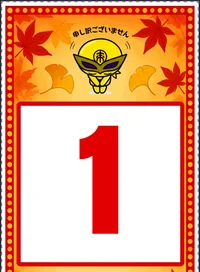
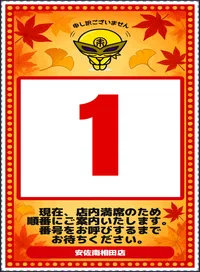
Calibrate seasonal text to masters: per-template message size/line-height, branch text size

diff --git a/css/ticket.css b/css/ticket.css
@@ -58,6 +58,6 @@
 .ticket-content { position: absolute; top: 0; left: 0; right: 0; bottom: 0; z-index: 5; pointer-events: none; }
 .number-frame { position: absolute; top: var(--frame-y); left: 50%; transform: translate(calc(-50% + var(--frame-dx, 0mm)), var(--frame-dy, 0mm)); width: var(--frame-width); height: var(--frame-height); border: var(--number-border-width) solid var(--number-border-color); border-radius: 1mm; background-color: var(--number-bg-color); display: var(--frame-display, block); box-sizing: border-box; z-index: 6; }
 .queue-number { position: absolute; top: var(--number-base-y, 40.25mm); left: 50%; transform: translate(calc(-50% + var(--number-dx, 0mm)), calc(-50% + var(--number-offset-y, 0mm) + var(--number-dy, 0mm))); font-family: var(--number-font); font-size: var(--number-size); font-weight: 900; color: var(--number-color); line-height: 1; display: var(--number-display, block); white-space: nowrap; text-align: center; z-index: 7; }
-.japanese-text { display: var(--message-display, block); position: absolute; bottom: var(--msg-y); left: 50%; transform: translate(calc(-50% + var(--msg-dx, 0mm)), var(--msg-dy, 0mm)); font-family: var(--msg-font); font-weight: var(--msg-weight); font-style: var(--msg-style); font-size: var(--msg-size); color: var(--msg-color); text-align: center; line-height: 1.2; width: calc(100% - (var(--content-padding-x) * 2) + 2%); letter-spacing: -0.1px; -webkit-text-stroke: var(--msg-stroke-w) var(--msg-stroke-c); }
+.japanese-text { display: var(--message-display, block); position: absolute; bottom: var(--msg-y); left: 50%; transform: translate(calc(-50% + var(--msg-dx, 0mm)), var(--msg-dy, 0mm)); font-family: var(--msg-font); font-weight: var(--msg-weight); font-style: var(--msg-style); font-size: var(--msg-size); color: var(--msg-color); text-align: center; line-height: var(--msg-line-height, 1.2); width: calc(100% - (var(--content-padding-x) * 2) + 2%); letter-spacing: -0.1px; -webkit-text-stroke: var(--msg-stroke-w) var(--msg-stroke-c); }
 .branch-name { display: var(--branch-display, block); position: absolute; bottom: var(--branch-y); left: 50%; transform: translate(calc(-50% + var(--branch-dx, 0mm)), var(--branch-dy, 0mm)); font-family: var(--branch-font); font-weight: var(--branch-weight); font-style: var(--branch-style); font-size: var(--branch-size); color: var(--branch-color); background-color: var(--branch-bg); text-align: center; width: var(--branch-width); max-width: calc(100% - (var(--content-padding-x) * 2)); padding: var(--branch-pad-y) 0; border-radius: var(--branch-radius); -webkit-text-stroke: var(--branch-stroke-w) var(--branch-stroke-c); -webkit-print-color-adjust: exact !important; }
 

diff --git a/sw.js b/sw.js
@@ -6,7 +6,7 @@
  * thị banner "Đã có bản mới — Nạp lại" thay vì tự đổi giữa ca làm.
  * Tên cache có phiên bản: bản mới tạo cache mới, bản cũ bị dọn ở activate.
  */
-const CACHE_NAME = 'rairaitei-shell-v8';
+const CACHE_NAME = 'rairaitei-shell-v9';
 const PRECACHE = ["./","assets/images/mascot.png","assets/images/templates/autumn-branch-ribbon.png","assets/images/templates/autumn-mascot.png","assets/images/templates/autumn-number-frame.png","assets/images/templates/spring-background.png","assets/images/templates/spring-branch-ribbon.png","assets/images/templates/spring-number-frame.png","assets/images/templates/summer-branch-ribbon.png","assets/images/templates/summer-mascot.png","assets/images/templates/summer-number-frame.png","assets/images/templates/thumbs/autumn.webp","assets/images/templates/thumbs/spring.webp","assets/images/templates/thumbs/summer.webp","assets/images/templates/thumbs/winter.webp","assets/images/templates/winter-branch-ribbon.png","assets/images/templates/winter-mascot.png","assets/images/templates/winter-number-frame.png","assets/templates/autumn.svg","assets/templates/summer.svg","assets/templates/winter.svg","css/fonts.css","css/layout.css","css/main.css","css/print.css","css/tailwind.css","css/templates.css","css/ticket-drag.css","css/ticket.css","css/tokens/colors.css","css/tokens/dimensions.css","css/tokens/index.css","css/tokens/typography.css","index.html","js/app.js","js/controls.js","js/core/signal.js","js/core/store.js","js/design-history.js","js/i18n.js","js/image-editor.js","js/in-app-guard.js","js/layout-sync.js","js/print/cropmarks.js","js/print/layout.js","js/print/preflight.js","js/print/print-mobile.js","js/print/print-pc.js","js/print/print.js","js/print/raster.js","js/registry/template-registry.js","js/registry/templates/autumn.js","js/registry/templates/spring.js","js/registry/templates/standard.js","js/registry/templates/summer.js","js/registry/templates/winter.js","js/state-schema.js","js/storage/draft-manager.js","js/storage/preset-manager.js","js/ticket-drag.js","js/ui-events.js","js/vendor/html-to-image.min.js","js/vendor/html2canvas.min.js","js/vendor/jspdf.umd.min.js"];
 
 self.addEventListener('install', (event) => {

diff --git a/js/registry/templates/winter.js b/js/registry/templates/winter.js
@@ -16,6 +16,7 @@ export const WinterTemplate = {
   datasetTemplate: 'winter',
   bgImage: "url('../assets/templates/winter.svg')",
   mascotImage: 'assets/images/templates/winter-mascot.png',
+  msgLineHeight: 1.01,
 
   // Preset thông số phần tử chuẩn xác theo lớp vector
   preset: {
@@ -29,12 +30,12 @@ export const WinterTemplate = {
     'frame-width': 36.2,
     'frame-height': 35.7,
     'frame-y': 21.8,
-    'msg-size': 6.4,
-    'msg-y': 8.0,
-    'branch-size': 6.5,
+    'msg-size': 7.3,
+    'msg-y': 8.15,
+    'branch-size': 5.3,
     'branch-y': 3.8,
     'branch-width': 75,
-    'branch-pad-y': 0.15,
+    'branch-pad-y': 0.4,
     'branch-radius': 1.4
   },
 

diff --git a/js/registry/templates/autumn.js b/js/registry/templates/autumn.js
@@ -16,6 +16,7 @@ export const AutumnTemplate = {
   datasetTemplate: 'autumn',
   bgImage: "url('../assets/templates/autumn.svg')",
   mascotImage: 'assets/images/templates/autumn-mascot.png',
+  msgLineHeight: 0.98,
 
   // Preset thông số phần tử chuẩn xác theo lớp vector
   preset: {
@@ -29,12 +30,12 @@ export const AutumnTemplate = {
     'frame-width': 36.5,
     'frame-height': 35.7,
     'frame-y': 21.8,
-    'msg-size': 6.4,
-    'msg-y': 7.9,
-    'branch-size': 6.5,
+    'msg-size': 7.6,
+    'msg-y': 8.1,
+    'branch-size': 5.3,
     'branch-y': 3.8,
     'branch-width': 75,
-    'branch-pad-y': 0.15,
+    'branch-pad-y': 0.4,
     'branch-radius': 1.4
   },
 

diff --git a/js/registry/templates/summer.js b/js/registry/templates/summer.js
@@ -16,6 +16,7 @@ export const SummerTemplate = {
   datasetTemplate: 'summer',
   bgImage: "url('../assets/templates/summer.svg')",
   mascotImage: 'assets/images/templates/summer-mascot.png',
+  msgLineHeight: 1.16,
 
   // Preset thông số phần tử chuẩn xác theo lớp vector
   preset: {
@@ -30,11 +31,11 @@ export const SummerTemplate = {
     'frame-height': 35.9,
     'frame-y': 21.5,
     'msg-size': 6.4,
-    'msg-y': 8.0,
-    'branch-size': 6.5,
+    'msg-y': 8.2,
+    'branch-size': 5.3,
     'branch-y': 3.5,
     'branch-width': 76,
-    'branch-pad-y': 0.15,
+    'branch-pad-y': 0.4,
     'branch-radius': 1.4
   },
 

diff --git a/js/registry/template-registry.js b/js/registry/template-registry.js
@@ -126,6 +126,14 @@ const TemplateRegistry = {
       document.body.style.removeProperty('--bg-image');
     }
 
+    // 2b. Khoảng cách dòng thông điệp riêng của mẫu (bản vẽ gốc nén dòng
+    // chặt hơn mặc định 1.2; mẫu không khai báo thì trở về mặc định CSS).
+    if (tpl.msgLineHeight) {
+      document.body.style.setProperty('--msg-line-height', String(tpl.msgLineHeight));
+    } else {
+      document.body.style.removeProperty('--msg-line-height');
+    }
+
     // 3. Áp dụng Presets thông số
     applyControlPreset(tpl.preset || undefined);
 

diff --git a/CHANGELOG.md b/CHANGELOG.md
@@ -2,6 +2,7 @@
 
 ## Bản sau lễ 2026 (lên sóng từ 4/11/2026 theo quyết định nghiệm thu sớm của Đạt)
 Hoàn thiện toàn repo theo kế hoạch đã duyệt 3/11/2026 (GĐ1–GĐ4 + thiết kế lại R0–R5). Hành vi người dùng giữ nguyên — đối chiếu bằng snapshot trạng thái + computed style toàn phần và bộ test hành vi 50 mục, tất cả đạt.
+- **Chỉnh cỡ chữ theo bản gốc từng mẫu (4/11/2026):** đo mực in trực tiếp từ file gốc của Đạt — thông điệp của Thu/Đông trong bản gốc được vẽ to hơn Hạ, nay cỡ chữ thông điệp Thu lên 7,6 pt, Đông 7,3 pt và khoảng cách dòng nén riêng từng mẫu (0,98/1,01/1,16 so với mặc định 1,2) để vị trí từng dòng khớp bản gốc trong 0,1 mm; tên quán trên ruy-băng thu từ 6,5 xuống 5,3 pt cho đúng bề rộng bản gốc (trước đó to hơn khoảng 20%).
 - **Tách lớp 3 mẫu mùa + dọn rác theo chỉ thị của Đạt (lên sóng 4/11/2026):** (1) Ba mẫu Hạ/Thu/Đông được tách lớp đúng như mẫu Xuân — file SVG gốc vốn là bản vẽ cắt lớp, nay nền chỉ còn phong cảnh, còn khung số, ruy-băng tên quán và linh vật (kèm chữ vòng cung) là từng tệp ảnh lớp riêng đặt lên đúng phần tử của app; số/thông điệp/tên quán vẫn là chữ sống. Viền đen quanh vé biến mất: đó là lề đen của khung canvas trong file thiết kế gốc bị mang theo khi dán cả bức tranh làm nền — nay nền được cắt đúng vùng họa tiết nên vé tràn viền như bản gốc. (2) Gỡ hẳn cơ chế in nhiệt còn sót (nút xem trước mô phỏng đen trắng, thuật toán dithering khi xuất PNG, khóa dịch và trạng thái liên quan) — đúng phạm vi sản phẩm Đạt đã chốt: app không có in nhiệt; có test ghim sự vắng mặt. (3) Gộp nút in còn một: trước đây có 2 nút in ở thanh trên (điện thoại + PC) mở pop-up chứa thêm một nút in xác nhận nữa; nay bỏ cả 2 nút header và pop-up, khu vực in thành tab 印刷 trong thanh tab như các tab khác, nút "印刷 / 保存を確定" trong tab là nút in duy nhất; canh gác trình duyệt nhúng và kiểm tra preflight chạy khi mở tab như trước. Kèm dọn: selector CSS mồ côi của nút/modal đã gỡ, khóa dịch mồ côi, tham chiếu nút in cũ không tồn tại, và 2 cụm CSS chết (.ticket-msg, .mascot-wrap — không còn phần tử tương ứng trong trang) cùng các rule ép cứng màu số của mẫu mùa (nay biến mẫu điều khiển thật sự). Linh vật của mẫu được nạp qua đúng đường xử lý của trình sửa linh vật nhưng bỏ qua bước xóa nền trắng (ảnh lớp đã trong suốt; bước đó xóa mất chữ vòng cung trắng của mẫu Hạ). Kiểm chứng: bộ test 31 + 8 + 58 + snapshot đạt (fixture lệch đúng phạm vi 3 mẫu mùa), Chrome thật máy tính + điện thoại: 3 mẫu ghép khớp bản gốc từng vùng, xuất PNG đơn giữ đủ các lớp, tab In mở đúng panel, 0 lỗi console.
 - **Dựng lại 3 mẫu mùa Hạ/Thu/Đông từ bản gốc trong repo ảnh (Đạt yêu cầu, lên sóng 4/11/2026):** (1) Tìm thấy lỗi gốc rễ tồn tại từ lâu: đường dẫn ảnh nền trong định nghĩa mẫu thiếu `../` — đường dẫn tương đối trong biến CSS được trình duyệt tính theo vị trí tệp CSS (css/) nên ảnh nền 3 mẫu SVG và cả nền mẫu Xuân đều lỗi 404, vé chỉ hiện nền trắng mà không ai hay biết (kiểm chứng trước đây chỉ đối chiếu phần tử chữ, không nhìn họa tiết). Đã sửa cả 4 mẫu. (2) Ba tệp SVG được dựng lại từ bản gốc ở repo assets-images: khôi phục toàn bộ họa tiết gồm dòng chữ vòng cung「申し訳ございません」trên linh vật (bản cũ bị lược bỏ), chỉ thay 3 phần tử sống (số, thông điệp, tên quán) bằng lớp phủ như thiết kế gốc; ảnh nhúng trong SVG được nén có kiểm chứng pixel (chênh lệch 0 điểm ảnh ngoài 3 vùng phần tử sống; dung lượng 463/498/624 KB so với bản gốc 1,3/1,5/2,0 MB). (3) Tắt lớp phủ linh vật ở 3 mẫu này (họa tiết đã có sẵn linh vật + chữ vòng cung; trước đây lỗi nền trắng nên không lộ việc trùng hai linh vật). (4) Canh lại hình học theo đúng bản gốc: khung số, cỡ số (Anton), khối thông điệp và dải tên quán được đo từ bản gốc rồi đặt trùng vị trí/kích thước (dải tên quán phủ đúng viên thuốc đỏ trong họa tiết, dùng đúng màu đỏ của viên thuốc). (5) Sửa màu chữ thông điệp Hạ/Đông từ đen sang trắng như bản gốc (trên nền xanh đậm, chữ đen không đọc được); thêm lựa chọn phông M PLUS Rounded 1c độ đậm 900 (đóng gói 126 lát phông, nạp lười) cho thông điệp + tên quán của 4 mẫu mùa — đúng kiểu chữ bo tròn vẽ tay trong bản gốc; mẫu Thu đổi phông số từ serif sang Impact/Anton vì số vẽ trong bản gốc là nét sans đậm. Kiểm chứng: bộ test 32 + 8 + 56 + snapshot đạt (fixture lệch đúng phạm vi 4 mẫu mùa), Chrome thật ở khung máy tính + điện thoại đối chiếu từng mẫu với bản gốc, 0 lỗi console.
 - **Sửa kiểu chữ số thứ tự sai thiết kế trên điện thoại (Đạt phát hiện khi nghiệm thu, lên sóng 4/11/2026):** mẫu Chuẩn/Hạ/Đông đặt phông số là 'Impact' — phông hệ thống chỉ có trên Windows/macOS, điện thoại iOS/Android không có nên số bị rơi về phông mặc định (trên máy kiểm chứng là phông có chân, khác hẳn thiết kế). Đã đóng gói thêm hai phông hiển thị bản quyền mở (Anton cho Impact, Archivo Black cho Arial Black; mỗi phông ~19 KB, nạp lười như các phông khác) và chèn vào sau phông thật trong chuỗi ưu tiên của cả 3 mẫu + lựa chọn trong bảng cài đặt + biến mặc định: máy có Impact thật vẫn dùng Impact, điện thoại dùng Anton — đúng kiểu Impact trên mọi máy. Kiểm chứng: phông nạp từ file local, ảnh chụp số "1" trước/sau trên máy không có Impact (tương đương điện thoại) cho thấy đúng kiểu chữ thiết kế; số "12" vừa khung. Fixture snapshot cập nhật đúng các dòng đổi phông (3 mẫu).
